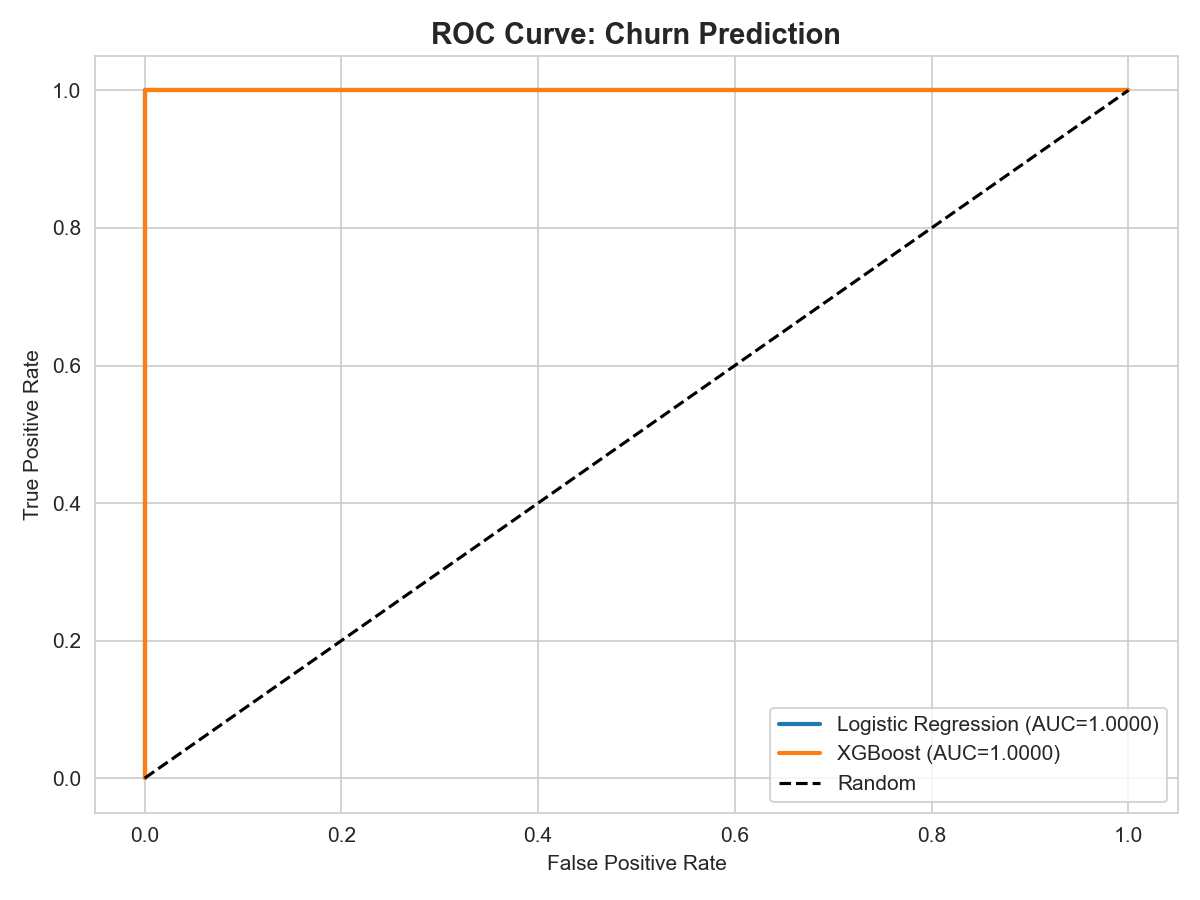
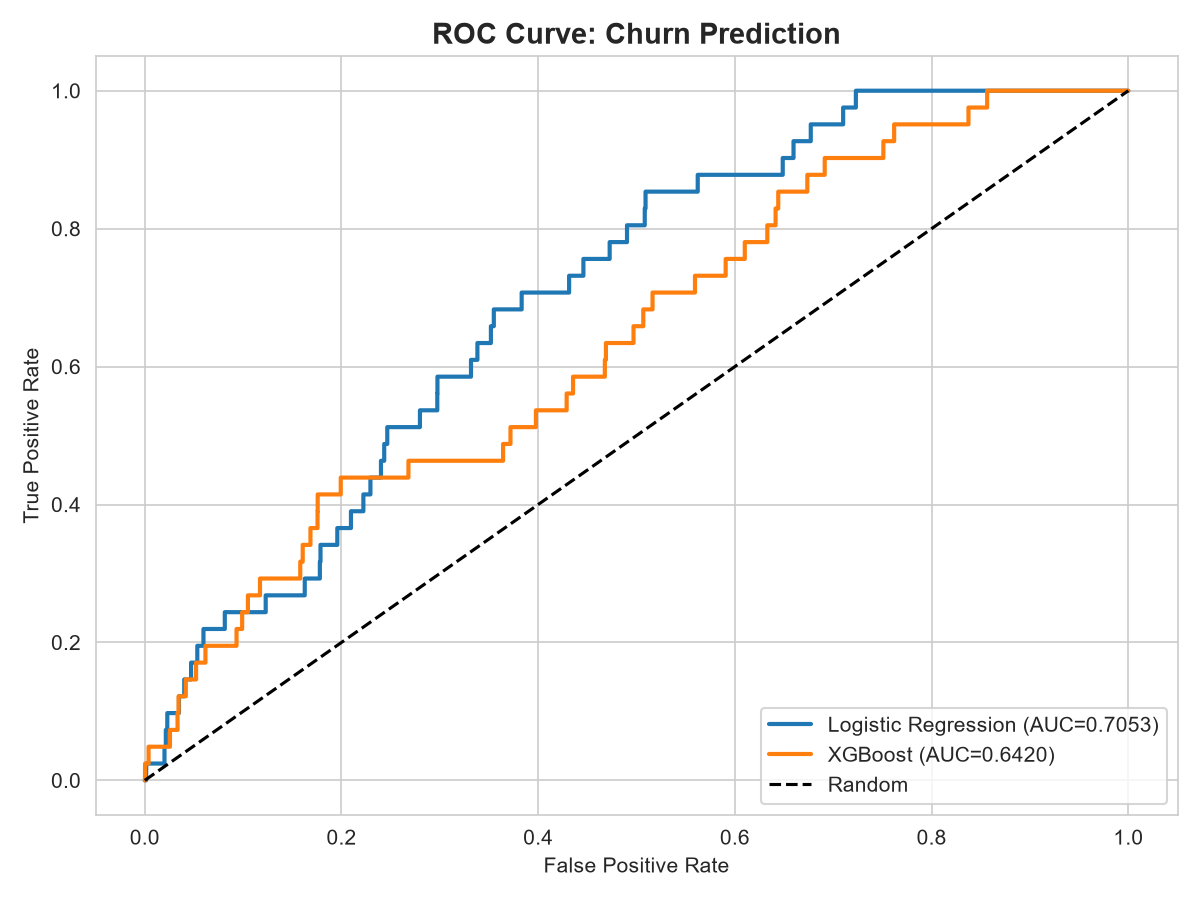
Fix churn label data leakage and audit n_rows=1 bug

diff --git a/scripts/churn_prediction.py b/scripts/churn_prediction.py
@@ -1,8 +1,20 @@
-"""Churn prediction model.
+"""Churn prediction model (leakage-free, time-split label).
 
 Builds user-level features from raw behavior logs, fits Logistic Regression
 and XGBoost, and emits ROC / feature-importance charts. Returns model metrics
 for the pipeline summary.
+
+Label definition (decoupled from features):
+    The behavior log is split by time into two disjoint windows:
+      * Observation window  [START_DATE, CHURN_OBSERVATION_END]:
+        all features (incl. `active_days`) are computed from this window only.
+      * Prediction window   (CHURN_OBSERVATION_END, CHURN_PREDICTION_END]:
+        defines the label — a user who is active in the observation window
+        but has NO behavior in the prediction window is labelled churn=1.
+    Only users active in the observation window are modelled. Because the label
+    is derived from a future window the features cannot see, there is no
+    target leakage (a prior active_days<=N label that reused active_days as a
+    feature produced AUC=1.0).
 
 Split out of scripts/pipeline.py.
 """
@@ -17,6 +29,7 @@ import matplotlib.pyplot as plt
 import polars as pl
 import seaborn as sns
 import xgboost as xgb
+from plot_style import apply_chart_style
 from sklearn.linear_model import LogisticRegression
 from sklearn.metrics import (
     accuracy_score,
@@ -30,7 +43,8 @@ from sklearn.model_selection import train_test_split
 from sklearn.preprocessing import StandardScaler
 
 from config import (
-    CHURN_ACTIVE_DAYS_THRESHOLD,
+    CHURN_OBSERVATION_END,
+    CHURN_PREDICTION_END,
     IMAGES_DIR,
     RANDOM_SEED,
     TEST_SIZE,
@@ -38,9 +52,7 @@ from config import (
 
 logger = logging.getLogger("pipeline.churn")
 
-plt.rcParams["font.sans-serif"] = ["SimHei", "Microsoft YaHei", "DejaVu Sans"]
-plt.rcParams["axes.unicode_minus"] = False
-sns.set_style("whitegrid")
+apply_chart_style()
 
 FEATURES = [
     "total_pv",
@@ -58,11 +70,25 @@ FEATURES = [
 
 
 def build_user_features(df: pl.DataFrame) -> pl.DataFrame:
-    """Build user-level features (reusable across stages)."""
-    dataset_max_date = df.select(pl.col("date").max()).item()
+    """Build user-level features and the leakage-free churn label.
+
+    Features are computed from the observation window only
+    [START_DATE, CHURN_OBSERVATION_END]. The label is derived from the
+    disjoint prediction window (CHURN_OBSERVATION_END, CHURN_PREDICTION_END]:
+    observation-active users with no behavior in the prediction window are
+    churn=1. Returns one row per user active in the observation window.
+    """
+    obs_end = datetime.strptime(CHURN_OBSERVATION_END, "%Y-%m-%d").date()
+    pred_end = datetime.strptime(CHURN_PREDICTION_END, "%Y-%m-%d").date()
+
+    obs_df = df.filter(pl.col("date") <= obs_end)
+    pred_df = df.filter((pl.col("date") > obs_end) & (pl.col("date") <= pred_end))
+
+    # Users active (modelable) in the observation window.
+    obs_users = obs_df.select("user_id").unique()
 
     user_stats = (
-        df.group_by("user_id")
+        obs_df.group_by("user_id")
         .agg(
             [
                 pl.col("behavior_type")
@@ -89,9 +115,7 @@ def build_user_features(df: pl.DataFrame) -> pl.DataFrame:
         )
         .with_columns(
             [
-                ((dataset_max_date - pl.col("last_date")).dt.total_days()).alias(
-                    "recency_days"
-                ),
+                ((obs_end - pl.col("last_date")).dt.total_days()).alias("recency_days"),
                 (pl.col("total_buy") / (pl.col("total_pv") + 0.001)).alias(
                     "buy_conversion"
                 ),
@@ -105,11 +129,20 @@ def build_user_features(df: pl.DataFrame) -> pl.DataFrame:
         )
     )
 
-    user_stats = user_stats.with_columns(
-        pl.when(pl.col("active_days") <= CHURN_ACTIVE_DAYS_THRESHOLD)
-        .then(1)
-        .otherwise(0)
-        .alias("churn")
+    # Label from the disjoint prediction window: churn=1 if no future behavior.
+    pred_active_users = (
+        pred_df.select("user_id").unique().with_columns(pl.lit(1).alias("_has_pred"))
+    )
+    user_stats = (
+        user_stats.join(obs_users, on="user_id", how="inner")
+        .join(pred_active_users, on="user_id", how="left")
+        .with_columns(
+            pl.when(pl.col("_has_pred").is_null())
+            .then(1)
+            .otherwise(0)
+            .alias("churn")
+        )
+        .drop("_has_pred")
     )
     return user_stats
 

diff --git a/scripts/audit_consistency.py b/scripts/audit_consistency.py
@@ -40,24 +40,24 @@ def main():
     if CLEANED_CSV_PATH.exists():
         import polars as pl
 
-        df = pl.read_csv(CLEANED_CSV_PATH, n_rows=1)
-        n_users = df.select(pl.col("user_id").n_unique()).item()
-        n_items = df.select(pl.col("item_id").n_unique()).item()
-        n_cats = df.select(pl.col("category_id").n_unique()).item()
-
-        # Read full row count from file size
-        with open(CLEANED_CSV_PATH, encoding="utf-8") as f:
-            total_rows = sum(1 for _ in f) - 1
+        # Read the full file once for accurate cardinalities. The previous
+        # implementation read n_rows=1, which made n_unique() always return 1
+        # and reported meaningless user/item/category counts.
+        df_full = pl.read_csv(CLEANED_CSV_PATH)
+        n_users = df_full.select(pl.col("user_id").n_unique()).item()
+        n_items = df_full.select(pl.col("item_id").n_unique()).item()
+        n_cats = df_full.select(pl.col("category_id").n_unique()).item()
+        total_rows = df_full.height
 
         ok = check(
             total_rows == 29_128_402,
-            f"Total records: actual={total_rows}, expected=29,128,402",
+            f"Total records: actual={total_rows:,}, expected=29,128,402",
         )
         if ok:
             passed += 1
         else:
             failed += 1
-        print(f"  Users: {n_users}, Items: {n_items}, Categories: {n_cats}")
+        print(f"  Users: {n_users:,}, Items: {n_items:,}, Categories: {n_cats:,}")
     else:
         print(f"  SKIP: {CLEANED_CSV_PATH} not found — run preprocess first")
 

diff --git a/config.py b/config.py
@@ -38,11 +38,27 @@ def ensure_dirs() -> None:
 # 分析参数
 RANDOM_SEED = int(os.getenv("RANDOM_SEED", "42"))
 TEST_SIZE = float(os.getenv("TEST_SIZE", "0.2"))  # 模型训练测试集比例
-CHURN_ACTIVE_DAYS_THRESHOLD = int(os.getenv("CHURN_ACTIVE_DAYS_THRESHOLD", "3"))  # 流失定义：活跃天数<=此阈值即为流失
 
 # 时间范围（数据集时间窗口）
 START_DATE = "2017-11-24"
 END_DATE = "2017-12-03"
+
+# Churn label definition (time-split, leakage-free):
+#   Features are built from behavior in the OBSERVATION window below.
+#   Label = whether the user is INACTIVE in the prediction window that follows
+#   (i.e. no behavior of any kind during the prediction window -> churn=1).
+# This decouples the label from the features: `active_days` in FEATURES refers
+# to observation-window active days only, while the label is derived from a
+# disjoint future window the features cannot see.
+# Historical note: a previous version defined churn as active_days<=N over the
+# full window with active_days also a feature, which leaked the label and
+# produced AUC=1.0. See scripts/churn_prediction.py.
+CHURN_OBSERVATION_END = os.getenv(
+    "CHURN_OBSERVATION_END", "2017-12-01"
+)  # observation window is [START_DATE, CHURN_OBSERVATION_END]
+CHURN_PREDICTION_END = os.getenv(
+    "CHURN_PREDICTION_END", END_DATE
+)  # prediction window is (CHURN_OBSERVATION_END, CHURN_PREDICTION_END]
 
 # LTV 行为权重（业务定义，可配置）
 BEHAVIOR_WEIGHTS = {